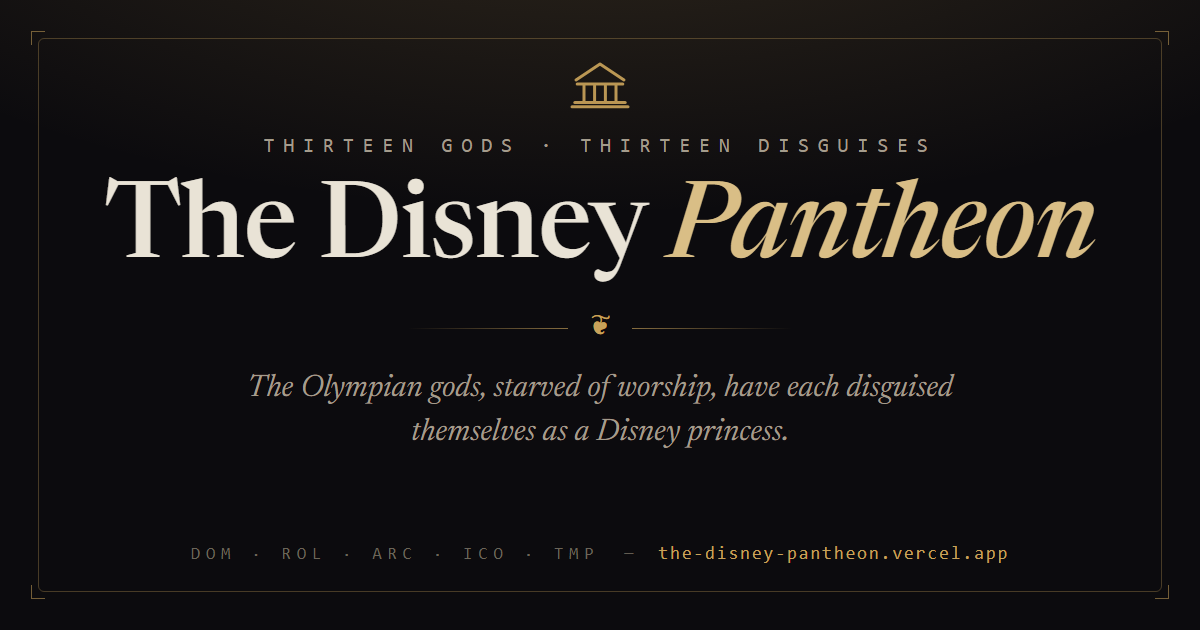
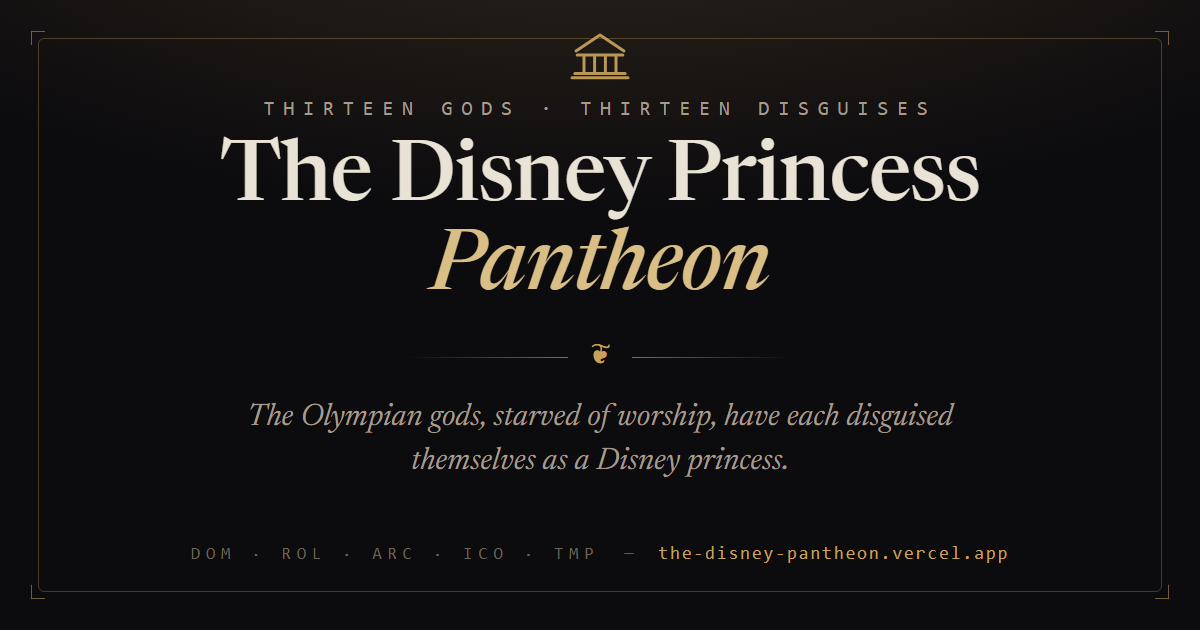
Rename display title to "The Disney Princess Pantheon"
It's the princesses who form the pantheon, not Disney at large. Updates the
metadata title/template, header logo, landing H1, share text, and the OG/Twitter
share card (now a two-line title). The vercel.app URL and repo name are
unchanged (kept to preserve the live link and share-image references).

diff --git a/app/layout.tsx b/app/layout.tsx
@@ -18,23 +18,23 @@ const serif = Newsreader({
 export const metadata: Metadata = {
   metadataBase: new URL(process.env.NEXT_PUBLIC_SITE_URL || 'https://the-disney-pantheon.vercel.app'),
   title: {
-    default: 'The Disney Pantheon',
-    template: '%s · The Disney Pantheon',
+    default: 'The Disney Princess Pantheon',
+    template: '%s · The Disney Princess Pantheon',
   },
   description:
     'Thirteen Olympian gods, each disguised as a Disney princess — a scored, adversarially-reviewed mapping across five facets of character.',
   openGraph: {
-    title: 'The Disney Pantheon',
+    title: 'The Disney Princess Pantheon',
     description:
       'The Olympian gods, starved of worship, have each disguised themselves as a Disney princess.',
     url: '/',
-    siteName: 'The Disney Pantheon',
+    siteName: 'The Disney Princess Pantheon',
     locale: 'en_US',
     type: 'website',
   },
   twitter: {
     card: 'summary_large_image',
-    title: 'The Disney Pantheon',
+    title: 'The Disney Princess Pantheon',
     description:
       'The Olympian gods, starved of worship, have each disguised themselves as a Disney princess.',
   },
@@ -48,7 +48,7 @@ function SiteHeader() {
           href="/"
           className="font-serif text-lg tracking-title text-ink transition-colors hover:text-goldsoft"
         >
-          The Disney&nbsp;Pantheon
+          The Disney Princess&nbsp;Pantheon
         </Link>
         <nav className="flex items-center gap-4 text-sm text-muted sm:gap-6">
           <Link href="/" className="transition-colors hover:text-ink">

diff --git a/components/RevealLedger.tsx b/components/RevealLedger.tsx
@@ -167,7 +167,7 @@ export default function RevealLedger({
       typeof window !== 'undefined' ? window.location.origin : 'https://the-disney-pantheon.vercel.app'
     const scoreLine =
       guessedCount > 0 ? `Guessed ${correctCount}/${guessedCount} right` : 'All thirteen unmasked'
-    const text = `The Disney Pantheon 🏛\n${squares}\n${scoreLine}\n${site}`
+    const text = `The Disney Princess Pantheon 🏛\n${squares}\n${scoreLine}\n${site}`
     try {
       if (typeof navigator !== 'undefined' && navigator.share) {
         await navigator.share({ text })

diff --git a/app/page.tsx b/app/page.tsx
@@ -48,7 +48,7 @@ export default function LandingPage() {
               Thirteen gods · thirteen disguises · thirteen princesses
             </p>
             <h1 className="text-balance text-5xl leading-[1.05] sm:text-6xl">
-              The Disney <span className="italic text-goldsoft">Pantheon</span>
+              The Disney Princess <span className="italic text-goldsoft">Pantheon</span>
             </h1>
             <p className="prose-editorial mt-8 max-w-measure text-muted">
               The 13 Olympian gods, starved of worship, have each disguised
